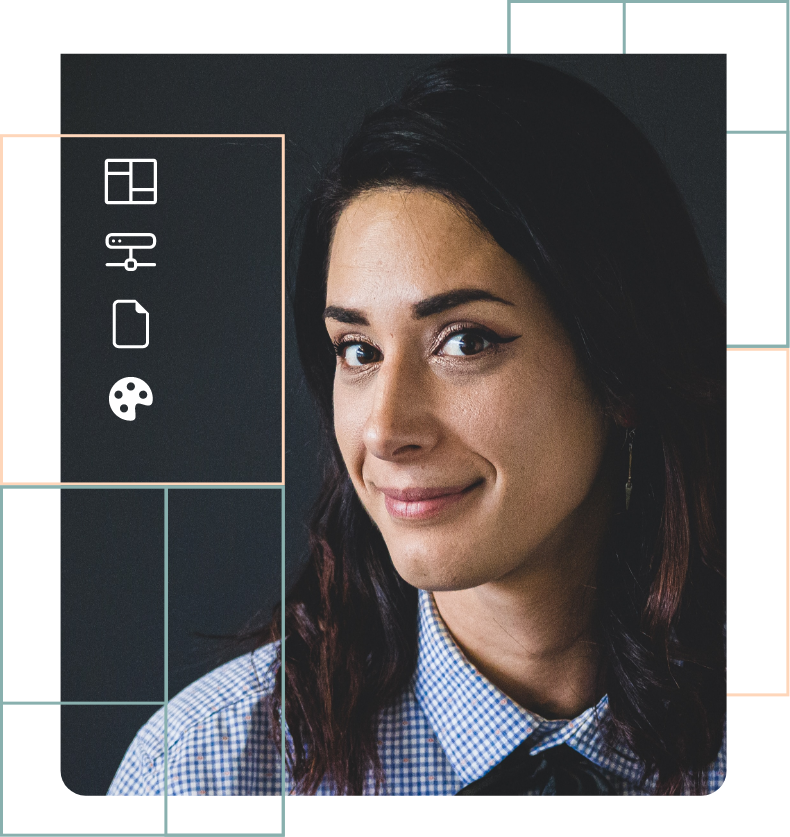
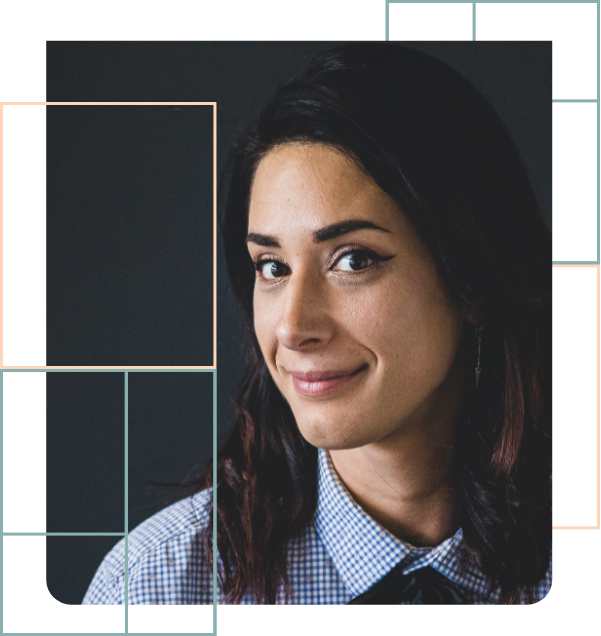
updated images and font styles for projects

diff --git a/digital-brand.html b/digital-brand.html
@@ -119,8 +119,8 @@
                     <h4 class="pt-4 san-serif-headline">My Role</h4>
                     <p>Visual Designer</p>
                 </div>
-                <div class="col-lg-9">
-                    <img src="img/netsol-img/netsol-grid-intro-2.png" class="img-fluid netsol-laptop-intro-style-image" alt="...">
+                <div class="col-lg-9 d-flex justify-content-center">
+                    <img src="img/netsol-img/netsol-grid-intro.png" class="img-fluid netsol-laptop-intro-style-image" alt="...">
                 </div>
             </div>
         </div>
@@ -153,8 +153,7 @@
                 </h3>
                 </div>
                 <div class="col-lg-9">
-                    <p class="text-black pb-4 pt-4 lead">With the guidance of Creative Directors Lexy DeRosa and Matt Hannon, we leveraged feedback on brand voice and developed
-                    a design system appropriate for the concept. These preliminary design components share the same colors, typography, and
+                    <p class="text-black pb-4 pt-4 lead">These preliminary design components share the same colors, typography, and
                     grid structure for consistency.
                     Typography consists of Didot, Open Sans, and limited use of Futura.
                     </p>
@@ -187,10 +186,10 @@
                     
                 </div>
                 <div class="col-lg-9">
-                    <p class="text-black px-4 pb-4 pt-4 lead">My design references were Stripe, Huge inc, and a few other brands from other industries for inspiration. I enjoyed how
+                    <p class="text-white px-4 pb-4 pt-4 lead">My design references were Stripe, Huge inc, and a few other brands from other industries for inspiration. I enjoyed how
                     Stripe represents modern design meta while not looking like a typical technology company.
                     </p>
-                    <p class="text-black px-4 pb-4 pt-4 lead"> All of the content on the
+                    <p class="text-white px-4 pb-4 pt-4 lead"> All of the content on the
                         homepage design (seen below) is a 1-to-1 ratio to the current site. This decision allows us to show the senior leadership
                         team
                         the new design treatment with familiar content.
@@ -211,7 +210,7 @@
                         </svg></span>
                     </h3>
                     <div class="col-lg-9">
-                        <p class="text-black  pb-4 pt-4 lead">The concept of the golden ratio grid was a critical part of the redesign process. The combination of color grid
+                        <p class="text-white  pb-4 pt-4 lead">The concept of the golden ratio grid was a critical part of the redesign process. The combination of color grid
                         placement allows the brand to have a timeless foundation with a modern flare.
                         </p>
                     </div>

diff --git a/search-filter.html b/search-filter.html
@@ -150,10 +150,8 @@
                     <h4 class="fw-light dmn-padding">Visual Design - Filters active + chips of active filters</h4>
                 <div class="col-lg-12">
                     <img src="img/dmn-img/search-selection-chips.jpg" class="img-fluid pt-4" alt="...">
-            
                 </div>
             </div>
-
         </div>
     </section>
 
